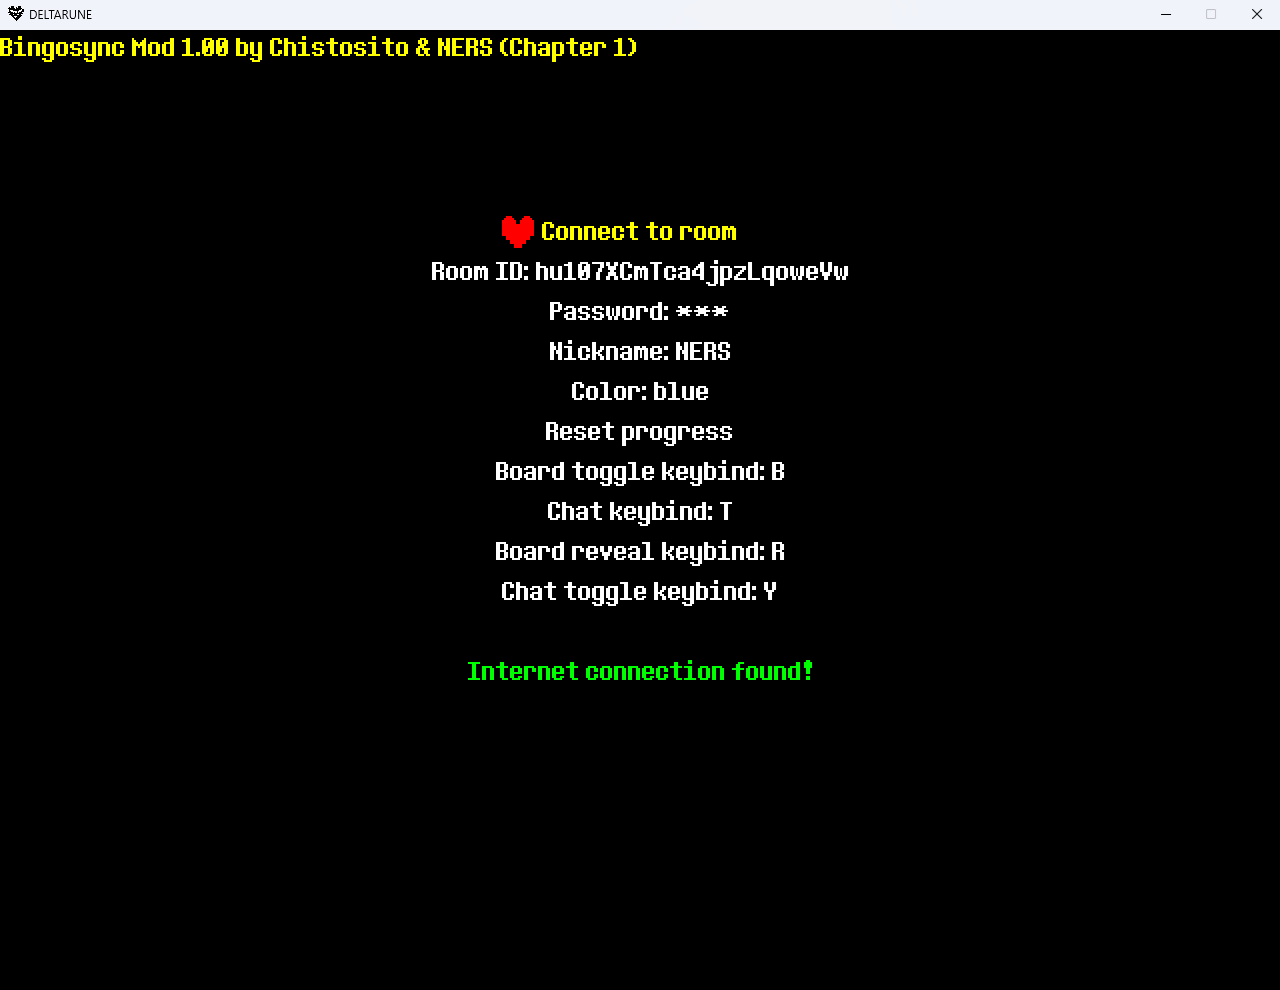
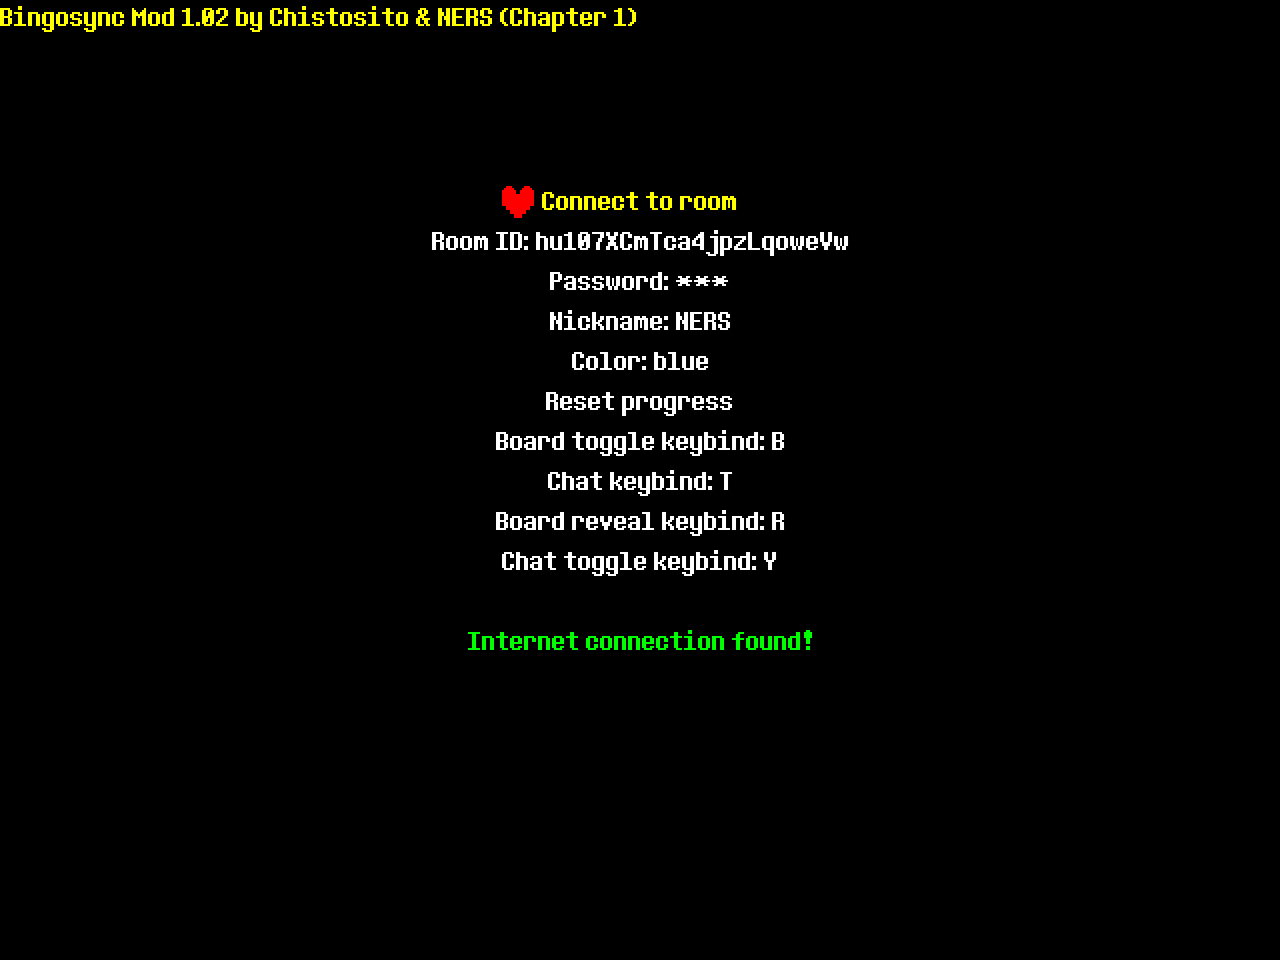
1.02

Changed region(s): [[0.3125, 0.1875, 0.6562, 0.625], [0.0, 0.0, 1.0, 0.0625], [0.3438, 0.6562, 0.6562, 0.6875]]

diff --git a/README.md b/README.md
@@ -5,7 +5,7 @@
 # DELTARUNE Bingosync Mod
 <b>NOTE</b>: This mod is only supported on Chapter 1&2 LTS v3 (1.19).
 
-This mod connects your game to [Bingosync](https://bingosync.com) and it can automatically mark goals from [this list](https://raw.githubusercontent.com/ners-xd/deltarune-bingosync/refs/heads/ch1%262/goal_list.json). You can also chat with other players, see the board update live and change your name color.
+This mod connects your game to [Bingosync](https://bingosync.com) and it can automatically mark goals from [this list](https://raw.githubusercontent.com/ners-xd/deltarune-bingosync/refs/heads/ch1%262/goal_list.json). You can also chat with other players, see the board update live, star goals and change your name color.
 
 # How to install and use
 - This mod was only tested on Windows and it's currently unknown if it's supported on Mac. If you have macOS and want to test it, use game.ios instead of data.win in the following steps. Linux is not supported at all because the game_change() function doesn't work;
@@ -19,14 +19,13 @@ This mod connects your game to [Bingosync](https://bingosync.com) and it can aut
 
 # Current quirks
 - You can't open the chat while holding Control or Shift;
-- There's no way to highlight goals in-game, like you do by right clicking them on the website;
 - Occasionally, messages might pop up in chat saying you disconnected, but you actually didn't.
 
 # Gameplay Images
 <p align="center">
   <img src="gameplay_image_1.png" title="DELTARUNE Chapter 1, in the mod's main menu. All the fields are filled out and the option &quot;Connect to room&quot; is highlighted.">
   <img src="gameplay_image_2.png" title="DELTARUNE Chapter 1, in Seam's shop. The chat is in the top left corner saying that NERS has connected, changed color to blue and marked the goal &quot;Buy an item from Seam and Rouxls&quot;. The board with 25 goals can be seen in the top right corner, with some information below stating the room's seed, lockout mode and the player's mod keybinds.">
-  <img src="gameplay_image_3.png" title="DELTARUNE Chapter 2, in Sans's store. The chat is in the top left corner saying that NERS has connected, changed color to blue, marked the goal &quot;Speak to Sans&quot; and said &quot;holy shit guys its sans&quot;. Some information can be seen in the top right corner stating the room's seed, lockout mode and the player's mod keybinds. The player also has the chatbox open, ready to type.">
+  <img src="gameplay_image_3.png" title="DELTARUNE Chapter 2, in Sans's store. The chat is in the top left corner saying that NERS has connected, changed color to blue, marked the goal &quot;Speak to Sans&quot; and said &quot;holy shit guys it&#39;s sans&quot;. Some information can be seen in the top right corner stating the room's seed, lockout mode and the player's mod keybinds. The player also has the chatbox open, ready to type.">
 </p>
 
 # Contributing
